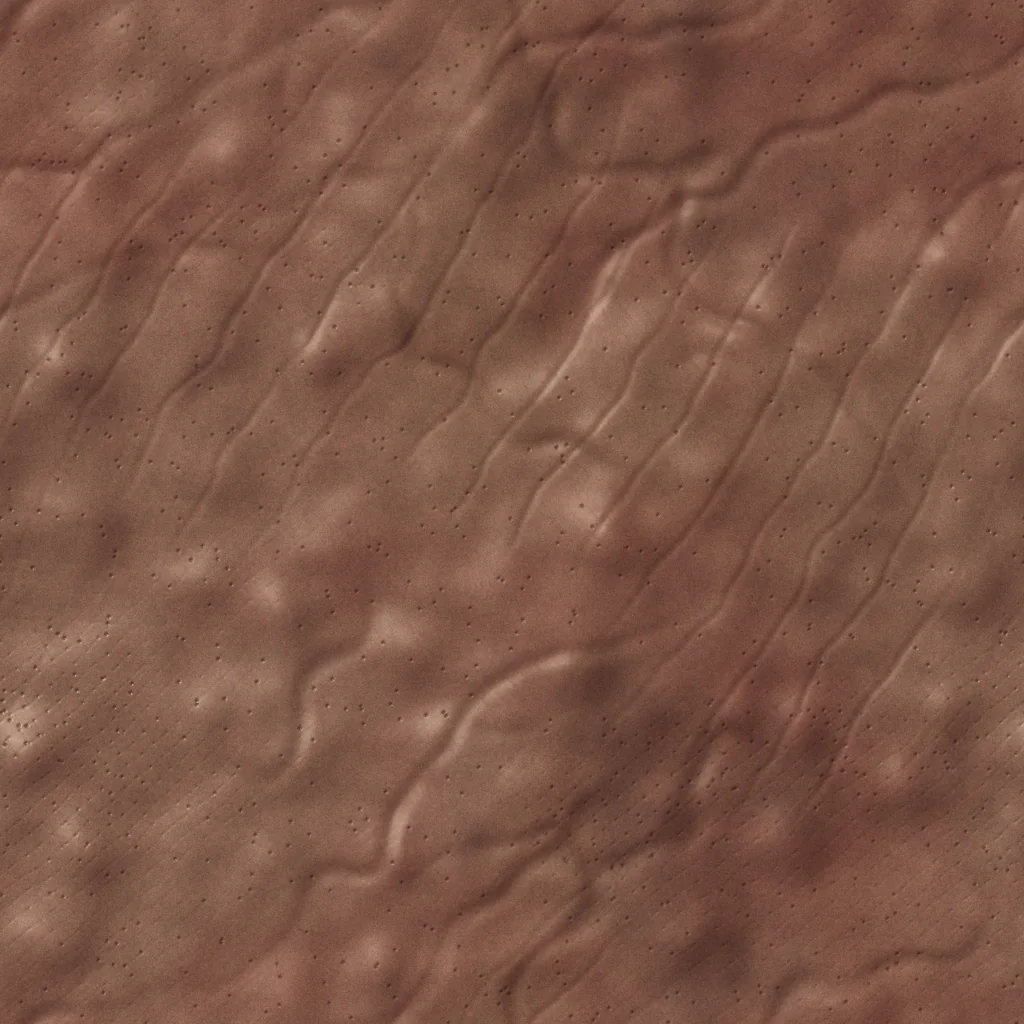
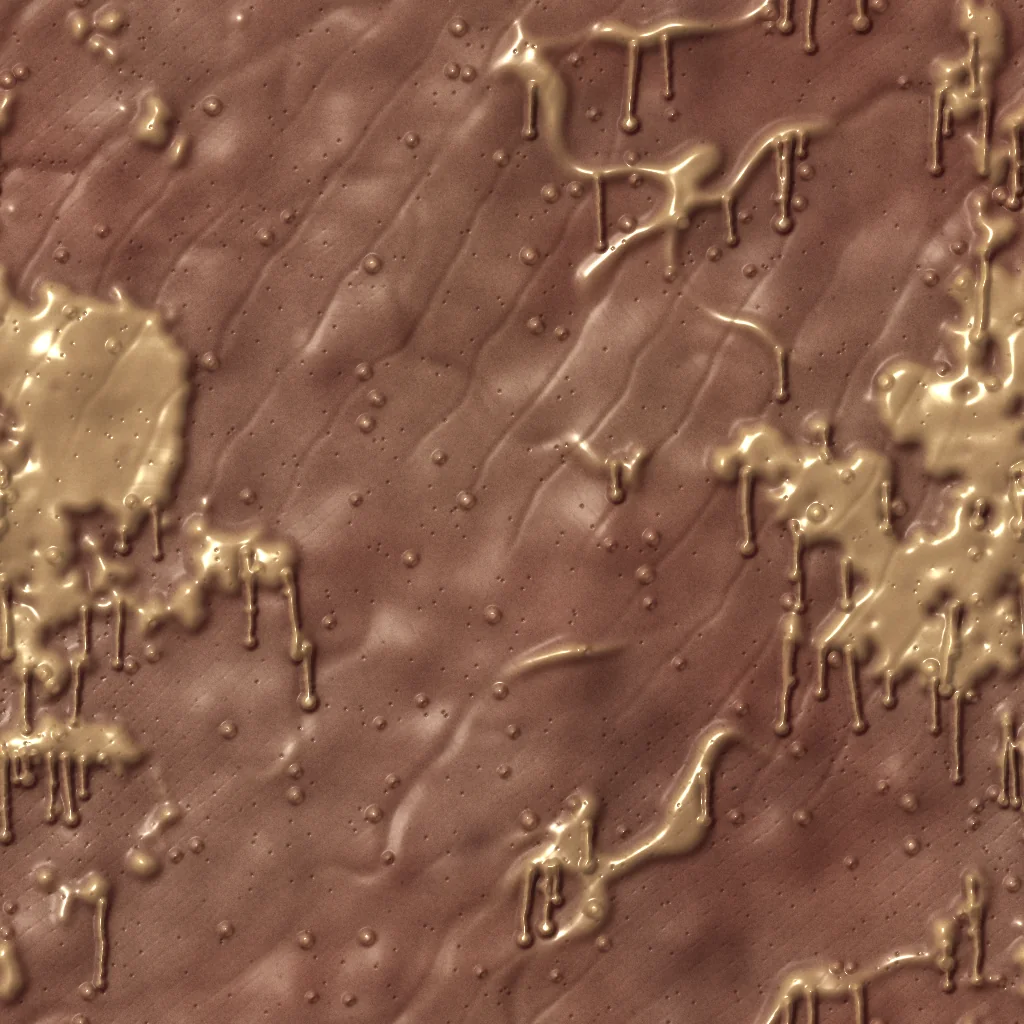
A gooey ground: mucus slicks, drips, beads and weeping pores
The ground was dry, matte skin. Now it's skin under goo:
- Slicks of mucus lying on it and pooled along the folds, thick enough to
  have rounded, glistening edges and glow a little through their middles.
- Drips hanging off the bottom edges of the slicks, oozing down the screen
  and ending in fat drops.
- Beads of moisture with a glint and light pooled on their far side.
- Some pores weeping pinkish serum; the skin round the goo wet, raw and red.

The goo's colour and its crisp glints go on after the colour grade, which
would otherwise pull the mucus yellow to skin-brown. The skin under it is
unchanged (the goo has its own random sequence). Normals are now their own
step in tools/world.py (normals), shared by shade and the ground's glints;
every other asset regenerates byte-identical.

Claude-Session: https://claude.ai/code/session_017kHxjLayX1yK4Q7sMVSaM4

diff --git a/tools/world.py b/tools/world.py
@@ -72,17 +72,20 @@ def mix(a, b, t):
 
 # ---------- shading ----------
 
-def shade(height, albedo, gloss, bump=1.0, shine=60, wrap=0.35, ao=1.0, periodic=False, sss=1.0):
+def normals(height, bump=1.0, periodic=False):
     if periodic:
         gx = (np.roll(height, -1, 1) - np.roll(height, 1, 1)) / 2
         gy = (np.roll(height, -1, 0) - np.roll(height, 1, 0)) / 2
-        local = gaussian_filter(height, 6, mode="wrap")
     else:
         gy, gx = np.gradient(height)
-        local = gaussian_filter(height, 6, mode="nearest")
     nx, ny, nz = -gx * bump, -gy * bump, np.ones_like(height)
     norm = np.sqrt(nx * nx + ny * ny + nz * nz)
-    nx, ny, nz = nx / norm, ny / norm, nz / norm
+    return nx / norm, ny / norm, nz / norm
+
+
+def shade(height, albedo, gloss, bump=1.0, shine=60, wrap=0.35, ao=1.0, periodic=False, sss=1.0):
+    nx, ny, nz = normals(height, bump, periodic)
+    local = gaussian_filter(height, 6, mode="wrap" if periodic else "nearest")
 
     ndl = nx * LIGHT[0] + ny * LIGHT[1] + nz * LIGHT[2]
     diffuse = np.clip((ndl + wrap) / (1 + wrap), 0, 1)
@@ -175,6 +178,8 @@ FLUSH = np.array([0.74, 0.40, 0.40])
 JAUNDICE = np.array([0.76, 0.62, 0.46])
 BRUISE = np.array([0.48, 0.36, 0.36])
 VEIN = np.array([0.44, 0.32, 0.36])   # a dull plum under the skin, not blue
+GOO = np.array([0.88, 0.86, 0.58])    # mucus: pale yellow with a green cast
+SERUM = np.array([0.70, 0.30, 0.22])  # what weeps from the pores, a little blood in it
 
 
 def stripes(n, rng, a, b, width, warp, wiggle=0.015):
@@ -182,6 +187,34 @@ def stripes(n, rng, a, b, width, warp, wiggle=0.015):
     yy, xx = np.mgrid[0:n, 0:n]
     phase = 2 * np.pi * (a * xx + b * yy) / n + warp * spectral(n, rng, 3.2, fmax=wiggle)
     return np.clip((np.cos(phase) - (1 - width)) / width, 0, 1) ** 2
+
+
+def stamped(n, shapes):
+    """A tiling 0..1 mask of circles [(x, y, r)], drawn at 2x for smooth edges."""
+    img = Image.new("L", (n * 2, n * 2))
+    draw = ImageDraw.Draw(img)
+    for x, y, r in shapes:
+        for ox in (-n, 0, n):
+            for oy in (-n, 0, n):
+                draw.ellipse([(x + ox - r) * 2, (y + oy - r) * 2, (x + ox + r) * 2, (y + oy + r) * 2], fill=255)
+    return np.asarray(img.resize((n, n), Image.LANCZOS), float) / 255
+
+
+def drips(rng, starts, count, length, width):
+    """Circles tracing drips that ooze down the screen from `starts`, thinning
+    as they go and ending in a fat drop."""
+    shapes = []
+    for _ in range(count):
+        x, y = starts[rng.integers(len(starts))]
+        steps = int(rng.uniform(*length) / 2)
+        w0 = rng.uniform(*width)
+        drift = rng.normal(0, 0.12)
+        for i in range(steps):
+            x += drift + rng.normal(0, 0.35)
+            y += 2
+            shapes.append((x, y, w0 * (1 - 0.45 * i / steps)))
+        shapes.append((x, y + 2, w0 * rng.uniform(1.2, 1.8)))
+    return shapes
 
 
 def ground(n=1024, seed=7):
@@ -223,12 +256,57 @@ def ground(n=1024, seed=7):
     albedo *= (1 + 0.05 * spectral(n, rng, 1.0))[..., None]
 
     wet = np.clip(0.35 + 0.2 * spectral(n, rng, 3, fmax=0.02), 0.1, 1)
-    color = shade(h, albedo, wet, bump=1.0, shine=45, ao=0.04, periodic=True)
-    # The set behind the characters: softer and a little quieter in colour than
-    # anything standing on it, like the background of a portrait.
+
+    # Goo (its own random sequence, so the skin under it stays as it was).
+    grng = np.random.default_rng(seed + 100)
+    # Slicks of mucus lying on the skin and pooled along the folds, thick enough
+    # to have rounded, glistening edges.
+    slick = np.clip((spectral(n, grng, 2.6, fmax=0.06) - 1.1) * 4, 0, 1)
+    pooled = np.clip((gaussian_filter(folds, 6.0, mode="wrap") - 0.22) * 4, 0, 1)
+    slick = np.maximum(slick, pooled * np.clip(spectral(n, grng, 3.2, fmax=0.02) + 0.3, 0, 1))
+    slick = gaussian_filter(slick, 1.5, mode="wrap")
+    thick = gaussian_filter(slick, 5, mode="wrap")
+    ripple = gaussian_filter(grng.standard_normal((n, n)), 9, mode="wrap")
+    goo_h = 26 * thick + 1.2 * thick * ripple / ripple.std()
+    goo = np.clip(slick * 1.4, 0, 1)
+    # Beads of moisture, big enough to catch the light; light through each one
+    # pools on its far side, away from the light.
+    beads = stamped(n, [(grng.uniform(0, n), grng.uniform(0, n), grng.uniform(2.5, 6)) for _ in range(140)])
+    goo_h += 16 * gaussian_filter(beads, 1.6, mode="wrap") ** 0.6
+    goo = np.maximum(goo, beads * 0.7)
+    caustic = np.clip(np.roll(gaussian_filter(beads, 1.5, mode="wrap"), (3, 3), (0, 1)) - beads * 0.4, 0, 1)
+    # Drips hanging off the bottom edges of the slicks, oozing down the screen.
+    edges = np.argwhere((slick > 0.5) & (np.roll(slick, -6, 0) < 0.3))
+    starts = [(x, y) for y, x in edges[grng.integers(len(edges), size=300)]]
+    dripping = stamped(n, drips(grng, starts, 75, (16, 90), (2.0, 4.5)))
+    goo_h += 18 * gaussian_filter(dripping, 1.8, mode="wrap") ** 0.7
+    goo = np.maximum(goo, dripping)
+    # Weeping pores: a bead of pinkish serum sitting in some of them.
+    weep = np.clip(pores - 0.6, 0, 1) * np.clip(spectral(n, grng, 2.0, fmax=0.2) - 0.6, 0, 1) * 6
+    weep = gaussian_filter(np.clip(weep, 0, 1), 1.0, mode="wrap")
+    goo_h += 4 * weep
+    albedo = mix(albedo, SERUM, weep * 0.7)
+    # Skin under and around the goo is wet: raw, red and glossy.
+    albedo = mix(albedo, FLUSH * 0.95, 0.35 * gaussian_filter(goo, 8, mode="wrap"))
+    h += goo_h
+
+    color = shade(h, albedo, wet + 0.25 + 1.6 * goo, bump=1.0, shine=45, ao=0.04, periodic=True)
+    # The set behind the characters: a little quieter in colour than anything
+    # standing on it, like the background of a portrait.
     rgb = tone(color, 0.82)
     lum = (rgb @ np.array([0.2126, 0.7152, 0.0722]))[..., None]
-    return save(lum + (rgb - lum) * 0.82, "ground")
+    rgb = lum + (rgb - lum) * 0.9
+    # The goo's colour goes on after the grade, which would pull its yellow to
+    # skin: see-through mucus, glowing through its thick middle, and a crisp
+    # glint over the soft sheen.
+    film = np.clip(slick * 0.8 + dripping * 0.8 + beads * 0.3, 0, 1)
+    rgb = mix(rgb, rgb * np.array([0.98, 1.0, 0.80]) * 0.8 + GOO * 0.22, film * 0.75)
+    rgb += (0.14 * thick)[..., None] * GOO
+    rgb += (0.20 * caustic)[..., None] * np.array([1.0, 0.88, 0.62])
+    nx, ny, nz = normals(h, periodic=True)
+    ndh = np.clip(nx * HALF[0] + ny * HALF[1] + nz * HALF[2], 0, 1)
+    rgb += (goo * (0.9 * ndh ** 300 + 0.25 * ndh ** 60))[..., None] * np.array([1.0, 0.97, 0.90])
+    return save(np.clip(rgb, 0, 1), "ground")
 
 
 def macro(n=256, seed=11):

diff --git a/README.md b/README.md
@@ -366,7 +366,9 @@ background. If it keeps a piece of scenery, add an erase box for that slug to
 ## World art
 
 Placeholder, generated procedurally by `tools/world.py` into
-`packages/client/public/world/`: a seamless 1024px wet-skin ground tile,
+`packages/client/public/world/`: a seamless 1024px ground tile of skin under
+goo (glossy mucus slicks and beads, drips oozing down off the slicks,
+weeping pores; the goo's colour goes on after the grade, so it stays yellow),
 three plot-sore variants, pimples, a pustule, moles, hairs, slime and pus
 puddles, a candle, its flame, soft glow/spore sprites, and for the MMO layer
 The Boil, the scab over locked holes, goo droplets and the four seed icons,
@@ -379,7 +381,7 @@ Each is a height map + color + gloss shaded with one warm key light from the
 upper left, so it sits with the renders, then graded to the renders' skin
 (red-brown in the shadows warming to ochre in the lights, strong reds kept
 crimson), with pores and fine creases and a soft sheen rather than hard
-glints. In the game the ground and its props are drawn in `NIGHT_TINT` and
+glints (crisp ones only on the ground's goo). In the game the ground and its props are drawn in `NIGHT_TINT` and
 plots and world events in the slightly brighter `EVENT_TINT` (both in
 `layout.js`), so the characters are what stand out. Deterministic; rerun with
 `python tools/world.py` after changing it (`python tools/world.py ground` for
